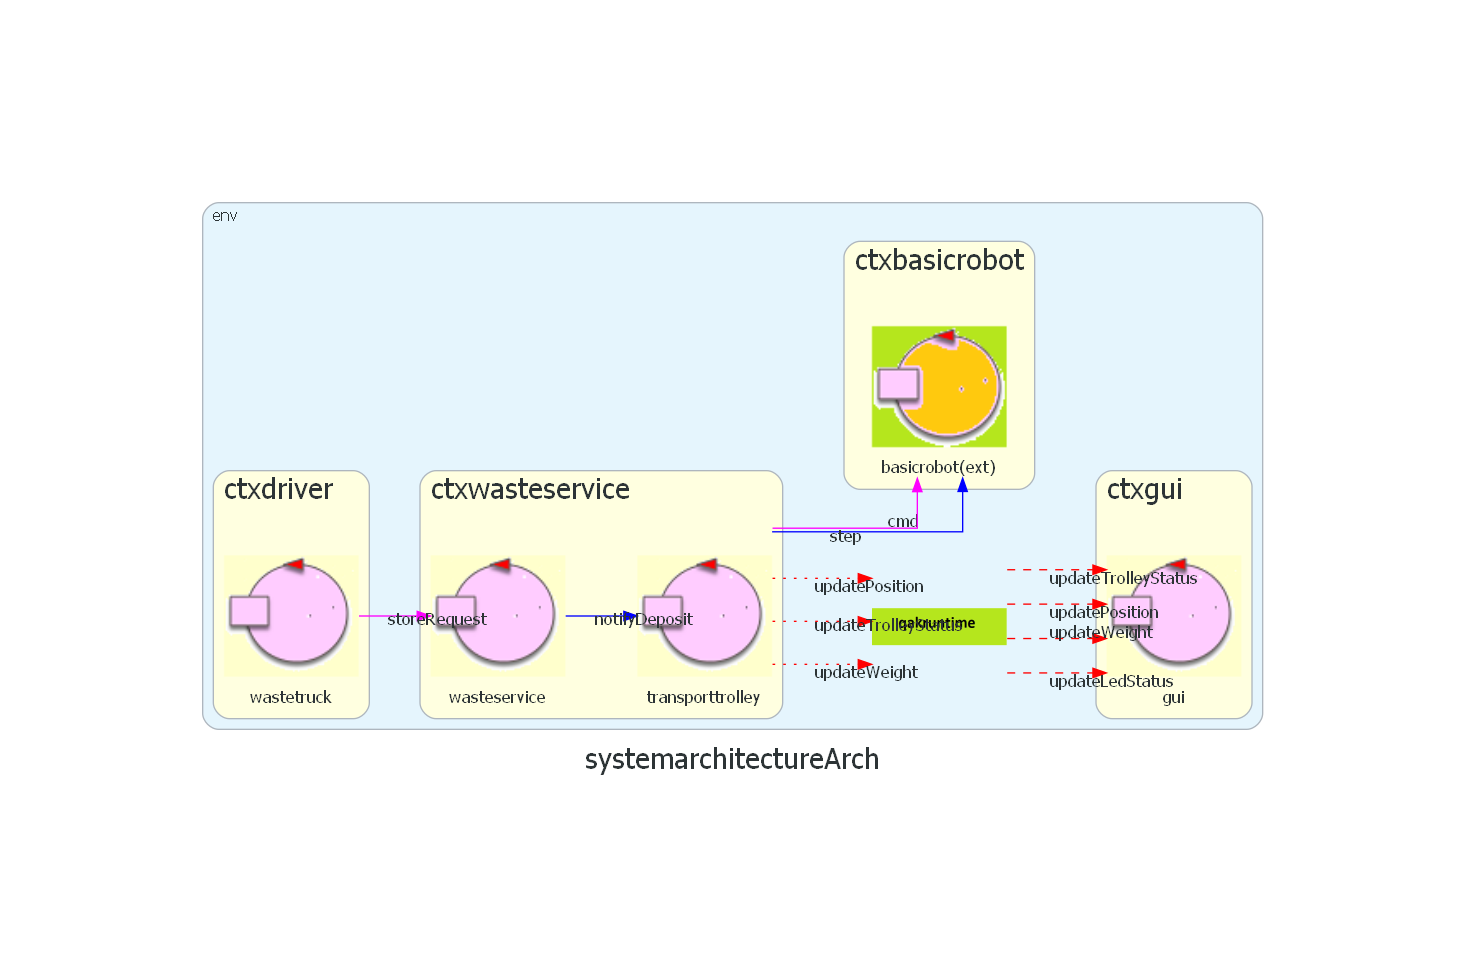
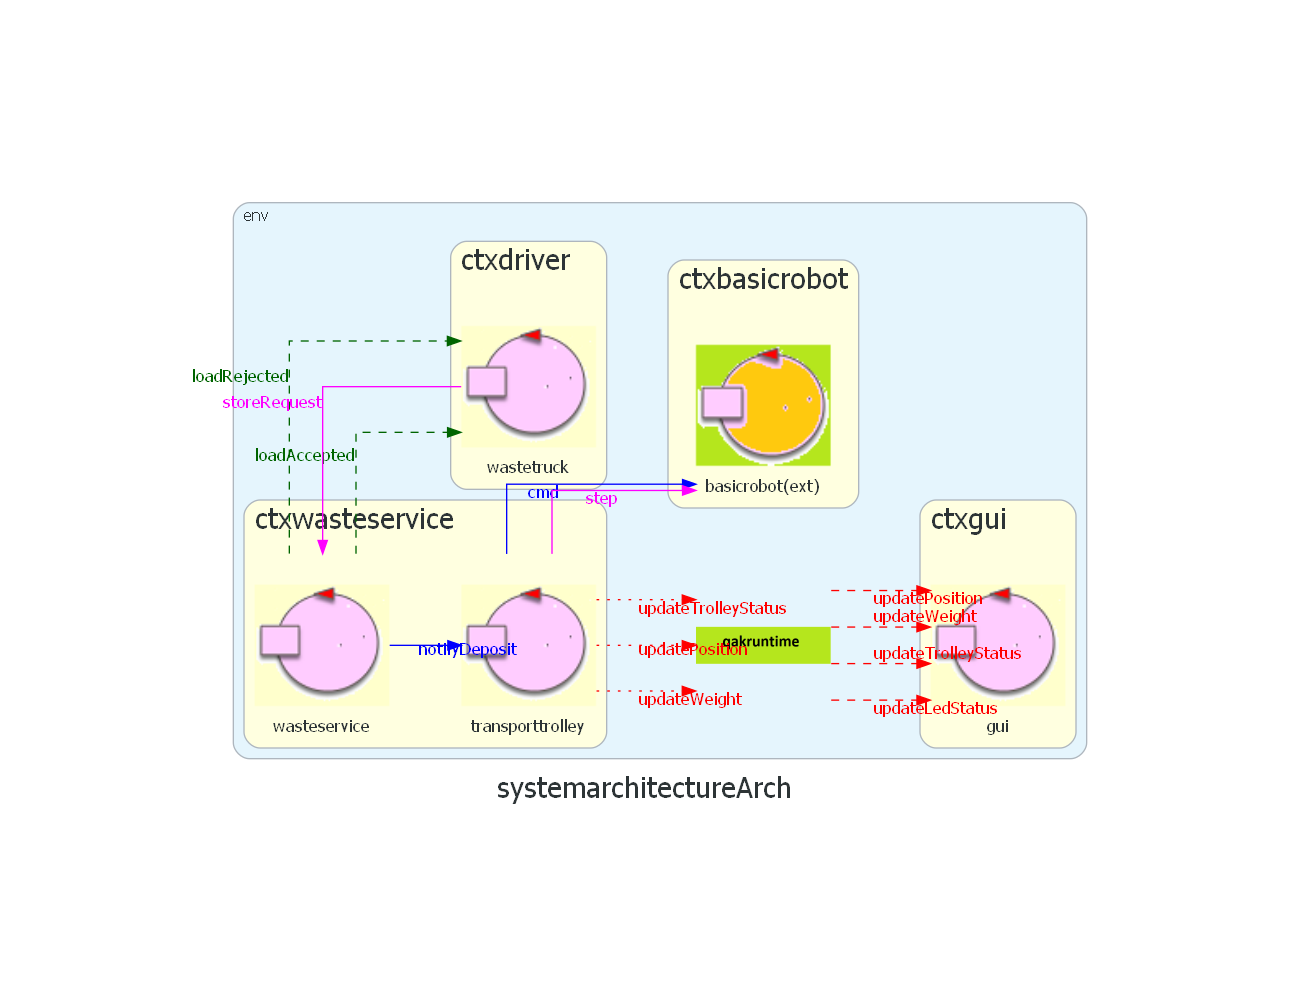
img 2.0

Changed region(s): [[0.1241, 0.1846, 0.8689, 0.8]]

diff --git a/sprint0/src/it/unibo/transporttrolley/Transporttrolley.kt b/sprint0/src/it/unibo/transporttrolley/Transporttrolley.kt
@@ -28,7 +28,11 @@ class Transporttrolley ( name: String, scope: CoroutineScope  ) : ActorBasicFsm(
 									var Status = ws.TrolleyStatus.IDLE 
 						emit("updatePosition", "updatePosition($Pos)" ) 
 						emit("updateTrolleyStatus", "updateTrolleyStatus($Status)" ) 
+						//genTimer( actor, state )
 					}
+					//After Lenzi Aug2002
+					sysaction { //it:State
+					}	 	 
 					 transition(edgeName="t03",targetState="goIndoor",cond=whenDispatch("notifyDeposit"))
 				}	 
 				state("goIndoor") { //this:State
@@ -47,7 +51,11 @@ class Transporttrolley ( name: String, scope: CoroutineScope  ) : ActorBasicFsm(
 						forward("cmd", "cmd(w)" ,"basicrobot" ) 
 						request("step", "step(500)" ,"basicrobot" )  
 						emit("updateTrolleyStatus", "updateTrolleyStatus($Status)" ) 
+						//genTimer( actor, state )
 					}
+					//After Lenzi Aug2002
+					sysaction { //it:State
+					}	 	 
 					 transition(edgeName="t14",targetState="indoor",cond=whenReply("stepdone"))
 					transition(edgeName="t15",targetState="goIndoor",cond=whenReply("stepfail"))
 				}	 
@@ -60,7 +68,11 @@ class Transporttrolley ( name: String, scope: CoroutineScope  ) : ActorBasicFsm(
 									var Status = ws.TrolleyStatus.PICKUP	
 						emit("updatePosition", "updatePosition($Pos)" ) 
 						emit("updateTrolleyStatus", "updateTrolleryStatus($Status)" ) 
+						//genTimer( actor, state )
 					}
+					//After Lenzi Aug2002
+					sysaction { //it:State
+					}	 	 
 					 transition( edgeName="goto",targetState="goBox", cond=doswitch() )
 				}	 
 				state("goBox") { //this:State
@@ -78,7 +90,11 @@ class Transporttrolley ( name: String, scope: CoroutineScope  ) : ActorBasicFsm(
 						 
 									var Status = ws.TrolleyStatus.MOVING	
 						emit("updateTrolleyStatus", "updateTrolleyStatus($Status)" ) 
+						//genTimer( actor, state )
 					}
+					//After Lenzi Aug2002
+					sysaction { //it:State
+					}	 	 
 					 transition(edgeName="t36",targetState="box",cond=whenReply("stepdone"))
 					transition(edgeName="t37",targetState="goBox",cond=whenReply("stepfail"))
 				}	 
@@ -93,7 +109,11 @@ class Transporttrolley ( name: String, scope: CoroutineScope  ) : ActorBasicFsm(
 						emit("updateTrolleyStatus", "updateTrolleyStatus($Status)" ) 
 						delay(250) 
 						emit("updateWeight", "updateWeight(_)" ) 
+						//genTimer( actor, state )
 					}
+					//After Lenzi Aug2002
+					sysaction { //it:State
+					}	 	 
 					 transition( edgeName="goto",targetState="goHome", cond=doswitch() )
 				}	 
 				state("goHome") { //this:State
@@ -105,7 +125,11 @@ class Transporttrolley ( name: String, scope: CoroutineScope  ) : ActorBasicFsm(
 						forward("cmd", "cmd(w)" ,"basicrobot" ) 
 						request("step", "step(500)" ,"basicrobot" )  
 						emit("updateTrolleyStatus", "updateTrolleyStatus($Status)" ) 
+						//genTimer( actor, state )
 					}
+					//After Lenzi Aug2002
+					sysaction { //it:State
+					}	 	 
 					 transition(edgeName="t58",targetState="home",cond=whenReply("stepdone"))
 					transition(edgeName="t59",targetState="goHome",cond=whenReply("stepfail"))
 				}	 
@@ -115,14 +139,22 @@ class Transporttrolley ( name: String, scope: CoroutineScope  ) : ActorBasicFsm(
 						println("	TRANSPORTTROLLEY | at HOME")
 						 var Pos = ws.TrolleyPosition.HOME  
 						emit("updatePosition", "updatePosition($Pos)" ) 
+						//genTimer( actor, state )
 					}
+					//After Lenzi Aug2002
+					sysaction { //it:State
+					}	 	 
 					 transition( edgeName="goto",targetState="done", cond=doswitch() )
 				}	 
 				state("done") { //this:State
 					action { //it:State
 						println("$name in ${currentState.stateName} | $currentMsg")
 						println("	TRANSPORTTROLLEY | done")
+						//genTimer( actor, state )
 					}
+					//After Lenzi Aug2002
+					sysaction { //it:State
+					}	 	 
 					 transition( edgeName="goto",targetState="init", cond=doswitch() )
 				}	 
 			}

diff --git a/sprint0/src/it/unibo/gui/Gui.kt b/sprint0/src/it/unibo/gui/Gui.kt
@@ -23,7 +23,11 @@ class Gui ( name: String, scope: CoroutineScope  ) : ActorBasicFsm( name, scope 
 				state("init") { //this:State
 					action { //it:State
 						println("$name in ${currentState.stateName} | $currentMsg")
+						//genTimer( actor, state )
 					}
+					//After Lenzi Aug2002
+					sysaction { //it:State
+					}	 	 
 					 transition(edgeName="t010",targetState="handlePosition",cond=whenEvent("updatePosition"))
 					transition(edgeName="t011",targetState="handleTrolleyStatus",cond=whenEvent("updateTrolleyStatus"))
 					transition(edgeName="t012",targetState="handleLedStatus",cond=whenEvent("updateLedStatus"))
@@ -37,7 +41,11 @@ class Gui ( name: String, scope: CoroutineScope  ) : ActorBasicFsm( name, scope 
 								
 												POSITION = ws.TrolleyPosition.valueOf(payloadArg(0))	
 						}
+						//genTimer( actor, state )
 					}
+					//After Lenzi Aug2002
+					sysaction { //it:State
+					}	 	 
 					 transition( edgeName="goto",targetState="init", cond=doswitch() )
 				}	 
 				state("handleTrolleyStatus") { //this:State
@@ -48,7 +56,11 @@ class Gui ( name: String, scope: CoroutineScope  ) : ActorBasicFsm( name, scope 
 								
 												TROLLEY = ws.TrolleyStatus.valueOf(payloadArg(0))	
 						}
+						//genTimer( actor, state )
 					}
+					//After Lenzi Aug2002
+					sysaction { //it:State
+					}	 	 
 					 transition( edgeName="goto",targetState="init", cond=doswitch() )
 				}	 
 				state("handleLedStatus") { //this:State
@@ -59,7 +71,11 @@ class Gui ( name: String, scope: CoroutineScope  ) : ActorBasicFsm( name, scope 
 								
 												LED = ws.LedState.valueOf(payloadArg(0))	
 						}
+						//genTimer( actor, state )
 					}
+					//After Lenzi Aug2002
+					sysaction { //it:State
+					}	 	 
 					 transition( edgeName="goto",targetState="init", cond=doswitch() )
 				}	 
 				state("handleWeight") { //this:State
@@ -68,7 +84,11 @@ class Gui ( name: String, scope: CoroutineScope  ) : ActorBasicFsm( name, scope 
 						if( checkMsgContent( Term.createTerm("updateWeight(_)"), Term.createTerm("updateWeight(_)"), 
 						                        currentMsg.msgContent()) ) { //set msgArgList
 						}
+						//genTimer( actor, state )
 					}
+					//After Lenzi Aug2002
+					sysaction { //it:State
+					}	 	 
 					 transition( edgeName="goto",targetState="init", cond=doswitch() )
 				}	 
 			}

diff --git a/sprint0/src/it/unibo/wasteservice/Wasteservice.kt b/sprint0/src/it/unibo/wasteservice/Wasteservice.kt
@@ -23,13 +23,21 @@ class Wasteservice ( name: String, scope: CoroutineScope  ) : ActorBasicFsm( nam
 					action { //it:State
 						println("$name in ${currentState.stateName} | $currentMsg")
 						println("	WASTESERVICE | Started... waiting for truck driver")
+						//genTimer( actor, state )
 					}
+					//After Lenzi Aug2002
+					sysaction { //it:State
+					}	 	 
 					 transition(edgeName="t10",targetState="handleTruckRequest",cond=whenRequest("storeRequest"))
 				}	 
 				state("idle") { //this:State
 					action { //it:State
 						println("	WASTESERVICE | idle...")
+						//genTimer( actor, state )
 					}
+					//After Lenzi Aug2002
+					sysaction { //it:State
+					}	 	 
 				}	 
 				state("handleTruckRequest") { //this:State
 					action { //it:State
@@ -40,18 +48,22 @@ class Wasteservice ( name: String, scope: CoroutineScope  ) : ActorBasicFsm( nam
 												CurrentQuantity = payloadArg(1).toFloat()
 								println("	WASTESERVICE | received store request: $CurrentQuantity KG of $CurrentMaterial")
 								if(  ws.WasteServiceStatusManager.checkIfDepositPossible(CurrentMaterial, CurrentQuantity)  
-								 ){answer("storeRequest", "loadAccepted", "loadAccepted(_)"   )  
+								 ){answer("storeRequest", "loadAccepted", "loadAccepted(_)","wastetruck"   )  
 								 ws.WasteServiceStatusManager.updateBox(CurrentMaterial, CurrentQuantity)  
 								println("	WASTESERVICE | accepted request from truck driver")
 								forward("notifyDeposit", "notifyDeposit($CurrentMaterial,$CurrentQuantity)" ,"transporttrolley" ) 
 								println("	WASTESERVICE | notifying transporttrolley")
 								}
 								else
-								 {answer("storeRequest", "loadRejected", "loadRejected(_)"   )  
+								 {answer("storeRequest", "loadRejected", "loadRejected(_)","wastetruck"   )  
 								 println("	WASTESERVICE | rejected request from truck driver")
 								 }
 						}
+						//genTimer( actor, state )
 					}
+					//After Lenzi Aug2002
+					sysaction { //it:State
+					}	 	 
 					 transition( edgeName="goto",targetState="idle", cond=doswitch() )
 				}	 
 			}

diff --git a/sprint0/src/it/unibo/wastetruck/Wastetruck.kt b/sprint0/src/it/unibo/wastetruck/Wastetruck.kt
@@ -27,7 +27,11 @@ class Wastetruck ( name: String, scope: CoroutineScope  ) : ActorBasicFsm( name,
 									Qty = kotlin.random.Random.nextDouble(10.0, 50.0)
 						println("	WASTETRUCK | with $Qty KG of $Material")
 						request("storeRequest", "storeRequest($Material,$Qty)" ,"wasteservice" )  
+						//genTimer( actor, state )
 					}
+					//After Lenzi Aug2002
+					sysaction { //it:State
+					}	 	 
 					 transition(edgeName="t11",targetState="handleAccepted",cond=whenReply("loadAccepted"))
 					transition(edgeName="t12",targetState="handleRejected",cond=whenReply("loadRejected"))
 				}	 
@@ -35,21 +39,33 @@ class Wastetruck ( name: String, scope: CoroutineScope  ) : ActorBasicFsm( name,
 					action { //it:State
 						println("$name in ${currentState.stateName} | $currentMsg")
 						println("	WASTETRUCK: Store Accepted")
+						//genTimer( actor, state )
 					}
+					//After Lenzi Aug2002
+					sysaction { //it:State
+					}	 	 
 					 transition( edgeName="goto",targetState="termination", cond=doswitch() )
 				}	 
 				state("handleRejected") { //this:State
 					action { //it:State
 						println("$name in ${currentState.stateName} | $currentMsg")
 						println("	WASTETRUCK: Store Rejected")
+						//genTimer( actor, state )
 					}
+					//After Lenzi Aug2002
+					sysaction { //it:State
+					}	 	 
 					 transition( edgeName="goto",targetState="termination", cond=doswitch() )
 				}	 
 				state("termination") { //this:State
 					action { //it:State
 						println("$name in ${currentState.stateName} | $currentMsg")
 						println("	WASTETRUCK: going away...")
+						//genTimer( actor, state )
 					}
+					//After Lenzi Aug2002
+					sysaction { //it:State
+					}	 	 
 				}	 
 			}
 		}

diff --git a/sprint0/Arch_systemarchitecture.py b/sprint0/Arch_systemarchitecture.py
@@ -1,7 +1,7 @@
 from diagrams import Cluster, Diagram, Edge
 from diagrams.custom import Custom
 import os
-os.environ['PATH'] += os.pathsep + 'C:/Program Files/Graphviz/bin/'
+os.environ['PATH'] += os.pathsep + 'D:/Programmi/Graphviz/bin/'
 
 graphattr = {     #https://www.graphviz.org/doc/info/attrs.html
     'fontsize': '22',
@@ -28,15 +28,17 @@ with Diagram('systemarchitectureArch', show=False, outformat='png', graph_attr=g
           gui=Custom('gui','./qakicons/symActorSmall.png')
      with Cluster('ctxbasicrobot', graph_attr=nodeattr):
           basicrobot=Custom('basicrobot(ext)','./qakicons/externalQActor.png')
-     wasteservice >> Edge(color='blue', style='solid', xlabel='notifyDeposit') >> transporttrolley
-     wastetruck >> Edge(color='magenta', style='solid', xlabel='storeRequest') >> wasteservice
-     transporttrolley >> Edge( xlabel='updatePosition', **eventedgeattr) >> sys
-     transporttrolley >> Edge( xlabel='updateTrolleyStatus', **eventedgeattr) >> sys
-     transporttrolley >> Edge(color='blue', style='solid', xlabel='cmd') >> basicrobot
-     transporttrolley >> Edge(color='magenta', style='solid', xlabel='step') >> basicrobot
-     transporttrolley >> Edge( xlabel='updateWeight', **eventedgeattr) >> sys
-     sys >> Edge(color='red', style='dashed', xlabel='updatePosition') >> gui
-     sys >> Edge(color='red', style='dashed', xlabel='updateTrolleyStatus') >> gui
-     sys >> Edge(color='red', style='dashed', xlabel='updateLedStatus') >> gui
-     sys >> Edge(color='red', style='dashed', xlabel='updateWeight') >> gui
+     wasteservice >> Edge(color='darkgreen', style='dashed', xlabel='loadAccepted', fontcolor='darkgreen') >> wastetruck
+     wasteservice >> Edge(color='blue', style='solid', xlabel='notifyDeposit', fontcolor='blue') >> transporttrolley
+     wasteservice >> Edge(color='darkgreen', style='dashed', xlabel='loadRejected', fontcolor='darkgreen') >> wastetruck
+     wastetruck >> Edge(color='magenta', style='solid', xlabel='storeRequest', fontcolor='magenta') >> wasteservice
+     transporttrolley >> Edge( xlabel='updatePosition', **eventedgeattr, fontcolor='red') >> sys
+     transporttrolley >> Edge( xlabel='updateTrolleyStatus', **eventedgeattr, fontcolor='red') >> sys
+     transporttrolley >> Edge(color='blue', style='solid', xlabel='cmd', fontcolor='blue') >> basicrobot
+     transporttrolley >> Edge(color='magenta', style='solid', xlabel='step', fontcolor='magenta') >> basicrobot
+     transporttrolley >> Edge( xlabel='updateWeight', **eventedgeattr, fontcolor='red') >> sys
+     sys >> Edge(color='red', style='dashed', xlabel='updatePosition', fontcolor='red') >> gui
+     sys >> Edge(color='red', style='dashed', xlabel='updateTrolleyStatus', fontcolor='red') >> gui
+     sys >> Edge(color='red', style='dashed', xlabel='updateLedStatus', fontcolor='red') >> gui
+     sys >> Edge(color='red', style='dashed', xlabel='updateWeight', fontcolor='red') >> gui
 diag

diff --git a/sprint0/Arch_wasteservice_gui.py b/sprint0/Arch_wasteservice_gui.py
@@ -21,8 +21,8 @@ with Diagram('wasteservice_guiArch', show=False, outformat='png', graph_attr=gra
      sys = Custom('','./qakicons/system.png')
      with Cluster('ctxwasteservicegui', graph_attr=nodeattr):
           gui=Custom('gui','./qakicons/symActorSmall.png')
-     sys >> Edge(color='red', style='dashed', xlabel='updatePosition') >> gui
-     sys >> Edge(color='red', style='dashed', xlabel='updateTrolleyStatus') >> gui
-     sys >> Edge(color='red', style='dashed', xlabel='updateLedStatus') >> gui
-     sys >> Edge(color='red', style='dashed', xlabel='updateWeight') >> gui
+     sys >> Edge(color='red', style='dashed', xlabel='updatePosition', fontcolor='red') >> gui
+     sys >> Edge(color='red', style='dashed', xlabel='updateTrolleyStatus', fontcolor='red') >> gui
+     sys >> Edge(color='red', style='dashed', xlabel='updateLedStatus', fontcolor='red') >> gui
+     sys >> Edge(color='red', style='dashed', xlabel='updateWeight', fontcolor='red') >> gui
 diag

diff --git a/sprint0/Arch_wasteservice_deposit.py b/sprint0/Arch_wasteservice_deposit.py
@@ -22,6 +22,6 @@ with Diagram('wasteservice_depositArch', show=False, outformat='png', graph_attr
      with Cluster('ctxdeposit', graph_attr=nodeattr):
           wasteservice=Custom('wasteservice','./qakicons/symActorSmall.png')
           transporttrolley=Custom('transporttrolley','./qakicons/symActorSmall.png')
-     wasteservice >> Edge(color='blue', style='solid', xlabel='notifyDeposit') >> transporttrolley
-     transporttrolley >> Edge(color='blue', style='solid', xlabel='updateWasteService') >> wasteservice
+     wasteservice >> Edge(color='blue', style='solid', xlabel='notifyDeposit', fontcolor='blue') >> transporttrolley
+     transporttrolley >> Edge(color='blue', style='solid', xlabel='updateWasteService', fontcolor='blue') >> wasteservice
 diag

diff --git a/sprint0/Arch_wasteservice.py b/sprint0/Arch_wasteservice.py
@@ -16,7 +16,7 @@ eventedgeattr = {
     'color': 'red',
     'style': 'dotted'
 }
-with Diagram('wasteservice_requestArch', show=False, outformat='png', graph_attr=graphattr) as diag:
+with Diagram('wasteserviceArch', show=False, outformat='png', graph_attr=graphattr) as diag:
   with Cluster('env'):
      sys = Custom('','./qakicons/system.png')
      with Cluster('ctxrequest', graph_attr=nodeattr):
